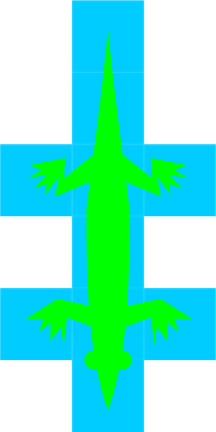
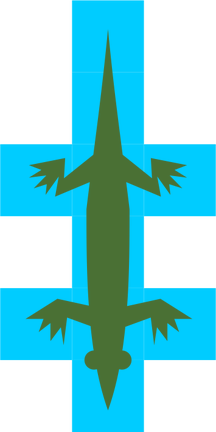
style(hippos): natural brown hippo and olive-green crocodile instead of magenta/neon green

Changed region(s): [[0.1111, 0.0602, 0.8889, 0.963]]

diff --git a/games/hipposandcrocodiles/design/make_board_art.py b/games/hipposandcrocodiles/design/make_board_art.py
@@ -53,8 +53,26 @@ art = {'river': build('river', 2, 0, 10, 20), 'lake': build('lake', 0, 3, 14, 14
 pieces = Image.open(GAME / 'hcpieces.png').convert('RGBA')
 CELL = 72
 SP = 118.0
+# Softer, natural animal colours instead of the print's magenta / neon green.
+# Each pixel is a blend of the cyan tile and the animal colour; keep the blend, swap the colour.
+CYAN = (0, 204, 255)
+ANIMAL = {'hippo': (124, 92, 72), 'crocodile': (74, 112, 52)}
+def recolor(im, name):
+    px = im.load()
+    new = ANIMAL[name]
+    for y in range(im.height):
+        for x in range(im.width):
+            r, g, b, a = px[x, y]
+            if a == 0:
+                continue
+            t = r / 255 if name == 'hippo' else 1 - b / 255   # share of animal colour
+            t = max(0.0, min(1.0, t))
+            px[x, y] = tuple(round(t * n + (1 - t) * c) for n, c in zip(new, CYAN)) + (a,)
+    return im
+
 def tile(name, box, cols, rows):
     im = pieces.crop(box).resize((cols * CELL, rows * CELL), Image.LANCZOS)
+    im = recolor(im, name)
     im.save(OUT / f'piece_{name}.png', optimize=True)
 tile('hippo', (437, 609, 909, 963), 4, 3)
 tile('crocodile', (488, 1032, 843, 1741), 3, 6)
